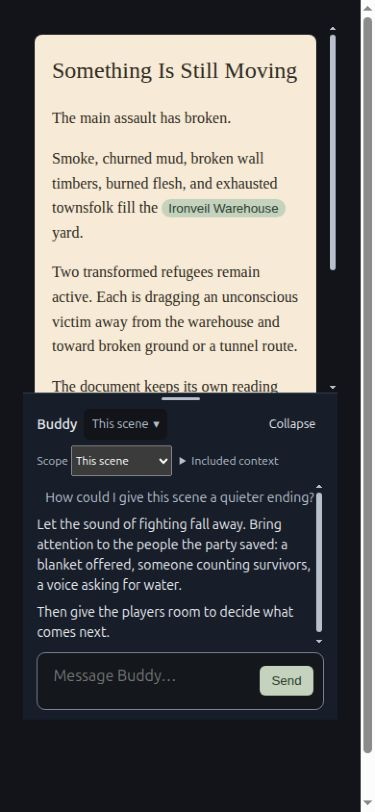
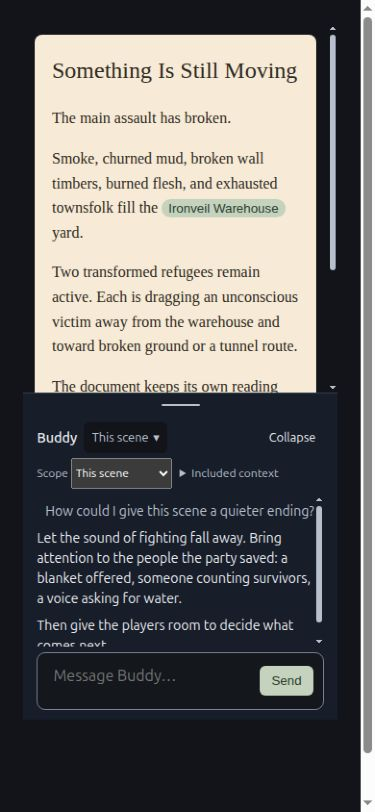
Give dock resizing a usable touch hit area

Changed region(s): [[0.088, 0.4926, 0.88, 0.8005], [0.44, 0.4618, 0.528, 0.4926]]

diff --git a/apps/live-control-ui/src/ui/ConversationDock.stories.tsx b/apps/live-control-ui/src/ui/ConversationDock.stories.tsx
@@ -19,17 +19,20 @@ const fixtureStyle = `
 @media(max-width:520px) { .dock-fixture-paper { margin:12px; padding:18px; } }
 `;
 
-function DockFixture({ expanded = false, paper = false, failed = false }: {expanded?:boolean;paper?:boolean;failed?:boolean}) {
+function DockFixture({ expanded = false, paper = false, failed = false, touch = false }: {expanded?:boolean;paper?:boolean;failed?:boolean;touch?:boolean}) {
   const [draft, setDraft] = useState("");
   const [scope, setScope] = useState("This scene");
   const [messages, setMessages] = useState<string[]>([]);
-  const theme = paper ? {
+  const theme = {
+    ...(paper ? {
     "--conversation-dock-chat-background": "#f7ebd7",
     "--conversation-dock-foreground": "#332d25",
     "--conversation-dock-muted": "#6b614f",
     "--conversation-dock-border": "#c0ad6a",
     "--conversation-dock-color-scheme": "light",
-  } as CSSProperties : undefined;
+    } : {}),
+    ...(touch ? {"--conversation-dock-resize-hit-size": "max(44px, 2.75rem)", "--conversation-dock-control-hit-size": "max(44px, 2.75rem)"} : {}),
+  } as CSSProperties;
   return <div className="dock-fixture"><style>{fixtureStyle}</style>
     <ConversationDock initialExpanded={expanded} contextLabel={scope} style={theme}
       reader={<article className="dock-fixture-paper"><h1>Something Is Still Moving</h1><p>The main assault has broken.</p><p>Smoke, churned mud, broken wall timbers, burned flesh, and exhausted townsfolk fill the <button type="button">Ironveil Warehouse</button> yard.</p><p>Two transformed refugees remain active. Each is dragging an unconscious victim away from the warehouse and toward broken ground or a tunnel route.</p><p>The document keeps its own reading space when chat opens. This is an isolated composition fixture, with no campaign or provider connection.</p><label>Reader note <input aria-label="Reader note" defaultValue="Keep the rescue brief" /></label></article>}
@@ -44,3 +47,4 @@ export const Compact = () => <DockFixture />;
 export const Expanded = () => <DockFixture expanded />;
 export const Paper = () => <DockFixture expanded paper />;
 export const FailedTurn = () => <DockFixture expanded failed />;
+export const TouchTarget = () => <DockFixture expanded touch />;

diff --git a/apps/live-control-ui/src/ui/ConversationDock.css b/apps/live-control-ui/src/ui/ConversationDock.css
@@ -5,6 +5,8 @@
   --conversation-dock-muted: var(--ui-text-secondary, #b8c0ce);
   --conversation-dock-border: var(--ui-border-subtle, #343d4d);
   --conversation-dock-color-scheme: dark;
+  --conversation-dock-resize-hit-size: max(24px, 1.5rem);
+  --conversation-dock-control-hit-size: max(32px, 2rem);
   color-scheme: var(--conversation-dock-color-scheme);
   display: grid;
   grid-template-rows: minmax(0, 1fr) auto;
@@ -37,7 +39,7 @@
   display: flex;
   align-items: center;
   justify-content: center;
-  flex: 0 0 0.65rem;
+  flex: 0 0 var(--conversation-dock-resize-hit-size);
   inline-size: 100%;
   padding: 0;
   border: 0;
@@ -54,7 +56,7 @@
   display: inline-flex;
   align-items: center;
   gap: 0.3rem;
-  min-block-size: 2rem;
+  min-block-size: var(--conversation-dock-control-hit-size);
   padding: 0.25rem 0.45rem;
   border: 1px solid transparent;
   border-radius: var(--ui-radius-sm, 0.375rem);
@@ -83,5 +85,5 @@
 .conversation-dock button:focus-visible { outline: 2px solid var(--ui-accent-action, #d9a441); outline-offset: 2px; }
 
 @media (pointer: coarse) {
-  .conversation-dock__header button { min-block-size: 2.75rem; }
+  .conversation-dock { --conversation-dock-resize-hit-size: max(44px, 2.75rem); --conversation-dock-control-hit-size: max(44px, 2.75rem); }
 }

diff --git a/Docs/Plans/HANDOFF-DOGFOOD-bottom-conversation-dock.md b/Docs/Plans/HANDOFF-DOGFOOD-bottom-conversation-dock.md
@@ -41,11 +41,15 @@ The primitive is not yet mounted in the product. It does not establish Graph-con
 ## Author verification packet
 
 - Ten owning interaction tests pass, including caller-labelled reading landmarks, mounted draft identity, context scope, message scroll restoration, pointer ownership/cancel, keyboard bounds, container resize/observer cleanup and unavailable-context transitions.
-- The four isolated Ladle states build successfully: Compact, Expanded, Paper and Failed turn. No application/provider decorators are loaded; the author server uses only this story glob on5203.
+- The five isolated Ladle states build successfully: Compact, Expanded, Paper, Failed turn and Touch target. No application/provider decorators are loaded; the author server uses only this story glob on5203.
 - Full UI typecheck remains red at `ThreatPublicationPanel.tsx:553` (`TS2503: Cannot find namespace JSX`). Exact-base source with the same dependencies reproduces the same error. An initially incomplete baseline archive also missed a fixture JSON; including that base fixture removed the setup error. No new dock type errors were reported.
-- At1280×720 and390×844, full44px composer/31px Send visible. Expanded message region209.44px, context-open171.84px. Native pointer opening leaves outer page at0; semantic helper actions that center fields can move the oversized Ladle wrapper, so those offsets are not counted as component behavior. Initial host allocation clipped the composer and was fixed before final screenshots.
+- At1280×720 and390×844, full44px composer/31px Send visible. After the touch-target correction, normal expanded messages195.83px/context-open158.23px; touch treatment163.83px/context-open126.23px. Native pointer opening leaves outer page at0; semantic helper actions that center fields can move the oversized Ladle wrapper, so those offsets are not counted as component behavior. Initial host allocation clipped the composer and was fixed before final screenshots.
 - Actual message scroll148px desktop/246px mobile survives collapse/reopen. Draft and selected scope retain identity. Keyboard and pointer height340→364→394px leave composer reachable and reader allocated.
 - Paint tested in dark and paper variants. The failed-turn fixture remains explicitly failed when collapsed; technical/recovery details fold without deletion or replay. These are design states, not a live Graph answer.
 - Owned before/after evidence is included in the declared evidence directory. Full author measurements are task-local `dogfood-2026-10-06/conversation-dock-author-metrics.json`. Ordinary virtual viewport/pointer/keyboard checks do not prove hardware touch, IME on every platform, streaming behavior or arbitrary oversized caller slots.
 
 Caller requirements: supply compact composer and header actions, preserve captured source attribution and real outcome in messages/collapsedPreview, and own conversation namespaces/drafts/provider/persistence. A consumer adapter must independently verify its actual content and authority; putting an entire legacy control form into the composer slot does not gain a readability pass.
+
+## Incremental independent-review response
+
+Independent review held head5353e04 on the10.4px resize target. The correction guarantees at least24px normally and44px under coarse-pointer media, while retaining a2.875px visible grip. Both hit and header-control sizes are paintable variables with pixel minima that survive smaller root-font scaling. The Touch target fixture applies the same44px treatment explicitly for rendered inspection; virtual viewport tests reported coarse=false, so this is not a claim of real hardware touch/media emulation. Pointer drags starting in the surrounding hit area resize340→368px at both treatments, with full composer controls. Refreshed owned screenshots/metrics replace changed-geometry after evidence; independent incremental review is still required.
